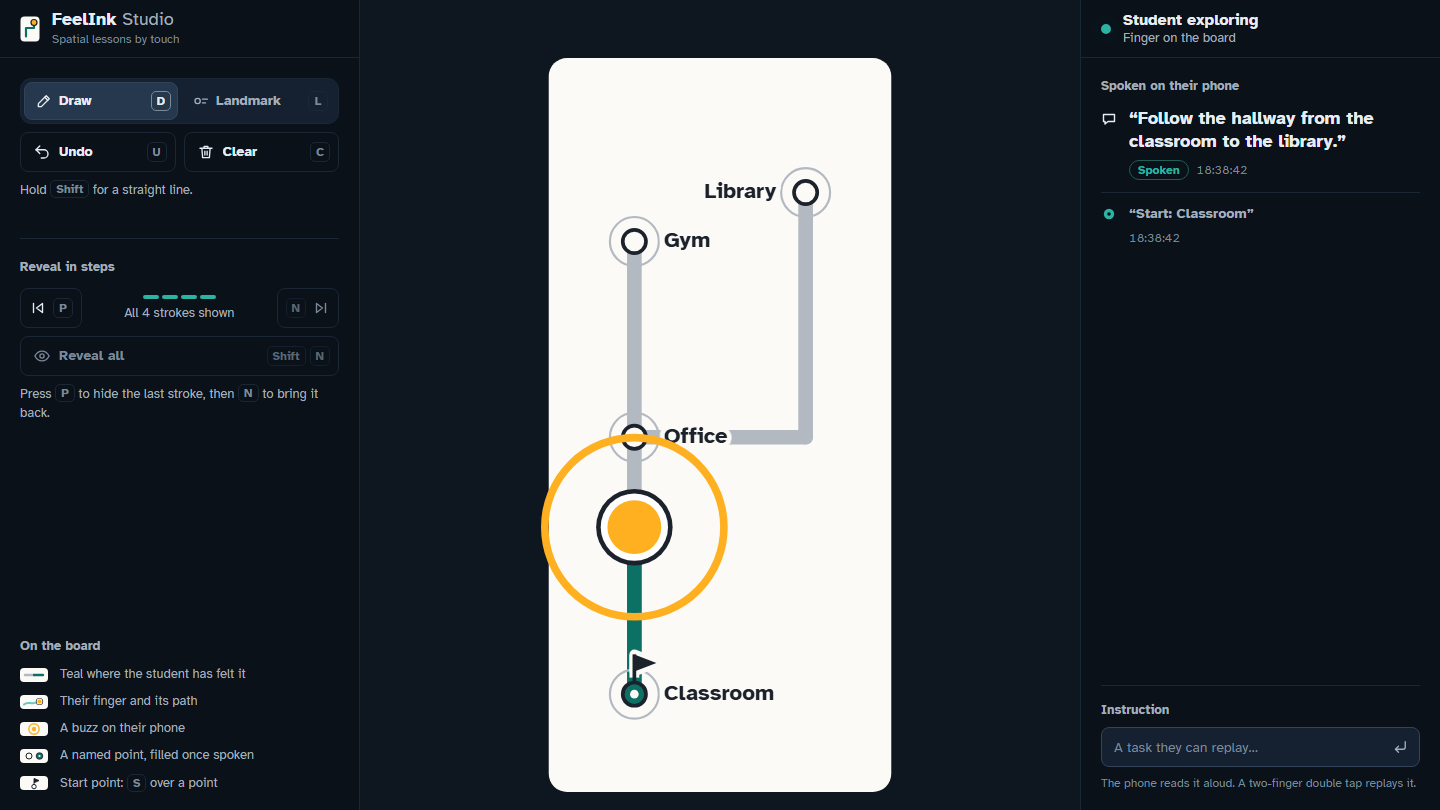
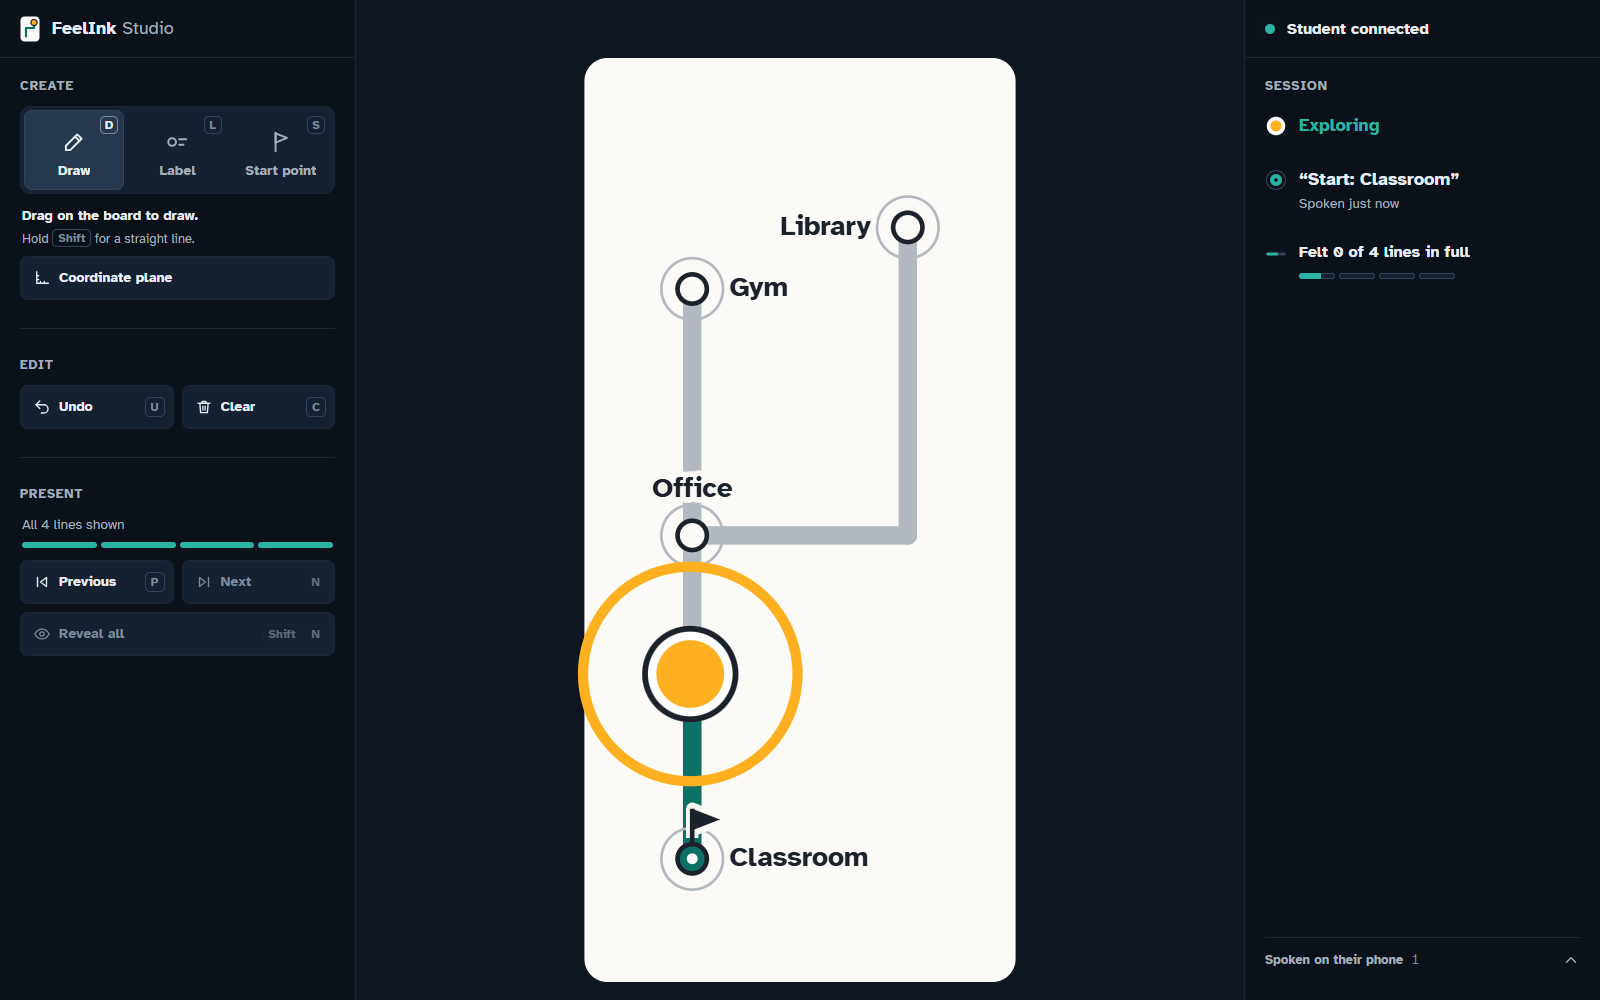
docs: README screenshots for the grouped stage and the coordinate plane
Re-rendered stage-route-lesson and stage-step-reveal on main bbec5eb, added stage-coordinate-plane (A (2, 1), B (2, 4), Shift line between them); captions say the phone events were posted by a script on a test relay; README prose says Label and drops the removed typed instruction.

diff --git a/README.md b/README.md
@@ -10,13 +10,13 @@ Built in a weekend at Capital Hacks 5.0 (Sac State, Nov 6-8, 2026) by Reeve and 
 
 A teacher sketches a route, a graph or a circuit on the board. Sighted students see it at once. A blind student gets a verbal description, or waits until someone prepares a tactile graphic. And when the teacher changes the drawing mid-lesson, the student has to wait all over again. Dedicated refreshable tactile displays exist, but they are expensive: APH's Monarch lists at $15,500.
 
-FeelInk is meant as a **supplementary channel**. It does not replace tactile graphics, braille, orientation and mobility instruction or dedicated hardware, and it is **not a navigation app**: no location, no obstacles, and it is never safe for real navigation. The first demonstration is route learning (a classroom-to-library route with named landmarks). The same pieces (lines, landmarks, spoken labels, instructions, step-by-step reveal) are meant for diagrams, graphs and circuits too.
+FeelInk is meant as a **supplementary channel**. It does not replace tactile graphics, braille, orientation and mobility instruction or dedicated hardware, and it is **not a navigation app**: no location, no obstacles, and it is never safe for real navigation. The first demonstration is route learning (a classroom-to-library route with named landmarks). The same pieces (lines, labels spoken by name, a start point, step-by-step reveal) are meant for diagrams, graphs and circuits too. A one-click coordinate plane is the first of those on the stage.
 
 ## How a lesson goes
 
 The tutor controls the lesson. The student controls their own exploration.
 
-1. **Tutor:** opens the FeelInk Studio page (`/stage`) on a laptop and draws freehand (hold Shift for a straight line). `L` then a click places a named label, and `S` over a label makes it the start point.
+1. **Tutor:** opens the FeelInk Studio page (`/stage`) on a laptop and draws freehand (hold Shift for a straight line). `L` then a click places a named label, and `S` over a label makes it the start point. **Coordinate plane** lays out axes with unit ticks in one click.
 2. **Student:** opens `/feel` in Chrome on an Android phone and taps **Connect**. The screen goes black and the whole board (56 x 120 mm) maps onto it at true scale, by our calculation from the screen's specs.
 3. **Student:** slides one finger across the glass. Lines buzz under the finger, getting fainter toward the edge of a line. Corners and line ends have their own short cues. On a label the phone gives a distinct triple pulse and says its name ("Start: Classroom").
 4. **Tutor:** talks to the student, as in any lesson, and watches the stage's student panel: their finger, the last label spoken and how much of the drawing they have felt. (Labels are `landmark` events in the protocol.)
@@ -25,11 +25,12 @@ The tutor controls the lesson. The student controls their own exploration.
 
 ## Screenshots
 
-| Tutor stage, mid-lesson | Step-through reveal | Student phone, home |
-|---|---|---|
-| ![FeelInk Studio stage with a route from Classroom to Library, the student's finger partway along it, and the spoken log](docs/stage-route-lesson.png) | ![The same route with one stroke shown and three hidden as dashed lines; the phone has said "Drawing updated."](docs/stage-step-reveal.png) | ![Phone home screen: FeelInk, connected to the laptop, a Connect to tutor button and a short how-to](docs/phone-home.png) |
+| Tutor stage, mid-lesson | Step-through reveal | Coordinate plane | Student phone, home |
+|---|---|---|---|
+| ![FeelInk Studio stage with a four-line route from Classroom, the start point, past Office and Gym to Library; the student's finger is partway up the first line inside an amber buzz ring, and the Session panel says Exploring and "Start: Classroom" spoken](docs/stage-route-lesson.png) | ![The same route with one line shown and three dashed as hidden; Present says "Shown 1 of 4 lines" and the open spoken history shows "Drawing updated." three times](docs/stage-step-reveal.png) | ![The stage's coordinate plane: axes with unit ticks, the Origin as start point, labels A (2, 1) and B (2, 4) on grid points and a straight line between them; the Session panel is waiting for the student](docs/stage-coordinate-plane.png) | ![Phone home screen: FeelInk, connected to the laptop, a Connect to tutor button and a short how-to](docs/phone-home.png) |
+| A route from Classroom (the start point) to Library in four lines. The finger is partway up the first line, teal where felt, with an amber buzz ring; "Start: Classroom" was spoken. Simulated phone events on a test relay. | The same route after `P` three times: one line shown, three dashed and hidden from the student, and the history open at "Drawing updated." ×3. Simulated phone events on a test relay. | A second demonstration: the Coordinate plane button, points A (2, 1) and B (2, 4) placed as spoken labels, and a Shift line between them. No phone connected; not yet felt on the Pixel. | The phone's home screen, connected to the laptop. |
 
-These are headless Chrome renders of the current pages on `main`. The tutor's strokes went through a local relay, and the phone-side events (finger, buzz, spoken lines) were **posted by a script, not by a phone**. Real recorded takes from the Pixel are still to come. On the phone, Live mode is a plain black screen by design, so it is not shown.
+The three stage pictures are headless Chrome renders (1600 x 1000) of the stage on `main` at `bbec5eb`, run against a test relay, not the demo one. **No phone was connected for any of them.** For the first two, a script posted the route to the test relay and also posted every phone-side event (presence, finger, buzzes, spoken lines), so the connected state is simulated, not a real Pixel session. The coordinate plane was made with the stage's own button, Label tool and Shift line, driven through Chrome's DevTools protocol. The phone home picture is an earlier headless render, kept as is. Real recorded takes from the Pixel are still to come. On the phone, Live mode is a plain black screen by design, so it is not shown.
 
 ## Architecture
 
@@ -38,7 +39,7 @@ flowchart LR
     stage["Tutor laptop<br/>/stage in a browser"]
     relay["Relay<br/>feelink/server.py<br/>Python stdlib, port 8765"]
     phone["Student phone<br/>/feel in Android Chrome<br/>USB via adb reverse"]
-    stage -->|"POST /event<br/>stroke, landmark, instruction,<br/>reveal, undo, clear"| relay
+    stage -->|"POST /event<br/>stroke, landmark,<br/>reveal, undo, clear"| relay
     relay -->|"SSE /events<br/>sync on join, then every event"| phone
     phone -->|"POST /event<br/>finger, haptic, spoken,<br/>phoneconfig, stroke"| relay
     relay -->|"SSE /events"| stage
@@ -71,8 +72,8 @@ Labels: **Measured** = on the real Pixel 8 or by a command; **Built** = in the c
 - **Strength is rhythm, because the Web Vibration API has no amplitude.** The strong core of a line is the continuous hold. Beside it, three fade steps use sparser pulses (12/60, 20/35, 30/15 ms on/off) that read as weaker.
 - **Core 4 mm, fade 1.5 x core.** The first prototype test ran on a 14 mm core; afterwards Reeve and Nathan judged 1-5 mm to read best. The default core is 4 mm, and the fade follows it at 1.5 x (6 mm each side), so the tutor sets one number in the phone's Advanced settings instead of two.
 - **Clean strokes before feeling them.** Hand-drawn strokes are simplified (Ramer-Douglas-Peucker, 2 mm) so wobbles don't read as corners. A corner is a turn of 40 degrees or more over a 5 mm window, measured on the raw stroke so circles get no false corners. A finger moving fast enough to skip over a line between touch samples still gets a 25 ms tick.
-- **A landmark is a state, not a one-off cue.** Earlier cues blended into the line's hum when a landmark sat on the path. Now, within 4 mm of a landmark, the hold stops, there are 400 ms of silence while the name starts, then three 220 ms pulses 130 ms apart (the only long triple). While the finger rests there, only a 70 ms heartbeat every 1.2 s plays. The name is not repeated if the finger comes back within 3 s. Reeve, on the Pixel: arrival is clear and spoken.
-- **Sent is not the same as heard.** The phone reports a `spoken` event from the speech engine's end callback, so the stage logs what the phone finished saying, not what it was asked to say. An instruction stays "Sent, not spoken yet" until then, and one replaced before it was spoken says so. Measured on the Pixel: an instruction sent at 17:59:38 was confirmed at 17:59:41.
+- **A label is a state, not a one-off cue.** Earlier cues blended into the line's hum when a label sat on the path. Now, within 4 mm of a label, the hold stops, there are 400 ms of silence while the name starts, then three 220 ms pulses 130 ms apart (the only long triple). While the finger rests there, only a 70 ms heartbeat every 1.2 s plays. The name is not repeated if the finger comes back within 3 s. Reeve, on the Pixel: arrival is clear and spoken.
+- **Sent is not the same as heard.** The phone reports a `spoken` event from the speech engine's end callback, so the stage logs what the phone finished saying, not what it was asked to say. Measured on the Pixel (tag `demo-1`): a line sent at 17:59:38 was reported spoken at 17:59:41.
 - **Step-through reveal, ordered by `seq`.** The relay stamps every stored stroke and landmark with an arrival number. A `sync` lists strokes and landmarks separately, so without `seq` a late-joining phone could not tell whether a landmark came before or after a hidden stroke. `reveal` is a count of tutor strokes; any malformed value means "show everything", the safe default. Undo clamps it and Clear resets it. Emulated: 13 of 13 reveal phases passed; not yet felt on the Pixel.
 - **One relay per port.** Windows let three relays bind port 8765 side by side (`SO_REUSEADDR`), which split the clients across different boards during a test (Measured). The relay now binds with `SO_EXCLUSIVEADDRUSE` on Windows and exits with an error if the port is taken.
 
@@ -80,7 +81,7 @@ Labels: **Measured** = on the real Pixel 8 or by a command; **Built** = in the c
 
 ## What we have shown, and what we have not
 
-1. **Device and engineering behaviour, Measured** on one Pixel 8: the numbers above, landmark arrival and speech heard on the phone, recovery after a USB drop.
+1. **Device and engineering behaviour, Measured** on one Pixel 8: the numbers above, label arrival and speech heard on the phone, recovery after a USB drop.
 2. **Prototype usability, one session:** a sighted tester with eyes closed named 4 of 5 shapes, median 49.9 s per shape. This was an older build (14 mm core). It does not validate the current build, route learning or any educational effect.
 3. **Feedback from blind students or teachers: none yet.** Outreach emails have gone out; no replies are recorded, and no one from the target group has tried FeelInk.
 4. **Evidence that FeelInk helps students learn: none.** It is a hypothesis to test, not a result.
@@ -93,7 +94,7 @@ Labels: **Measured** = on the real Pixel 8 or by a command; **Built** = in the c
 - **TalkBack is unverified.** Reading the Android sources suggests one-finger exploring may never reach the page with the screen reader on; nobody has tested it. Do not assume FeelInk works with TalkBack.
 - **No target-user validation and no evidence of educational effect** (see above).
 - **Far lower fidelity than a tactile display:** one fingertip, no raised dots, no braille.
-- **Not yet checked on the Pixel:** the step-through reveal, the redesigned Studio stage and the new phone home screen. The last build that passed a check on the Pixel is tag `demo-1`.
+- **Not yet checked on the Pixel:** the step-through reveal, the redesigned Studio stage, the Coordinate plane and the new phone home screen. The last build that passed a check on the Pixel is tag `demo-1`.
 - **No authentication.** Anyone on the same network can open the pages, so run the relay only while you use it.
 
 ## What we'd do next
